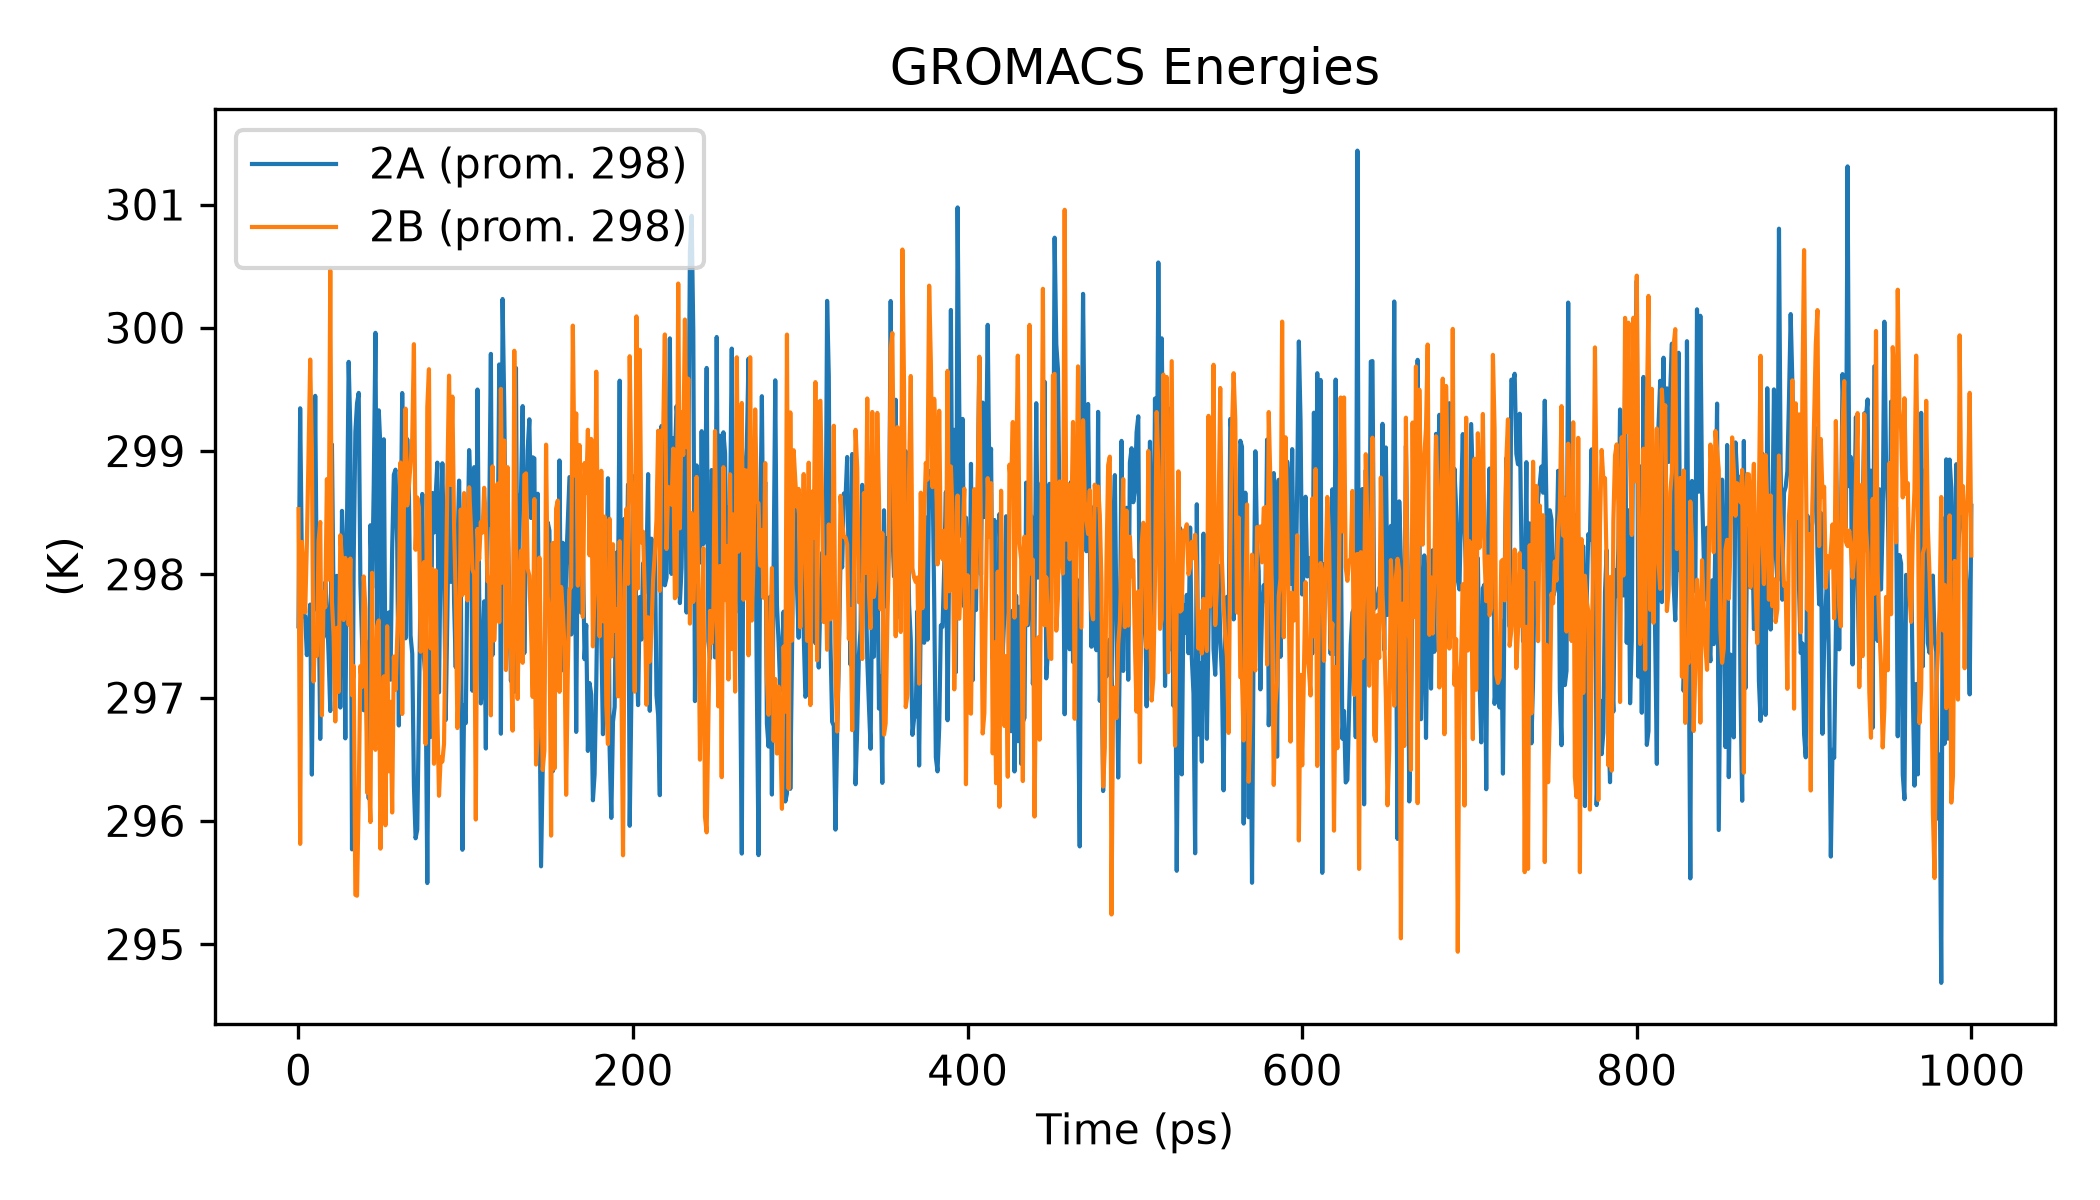
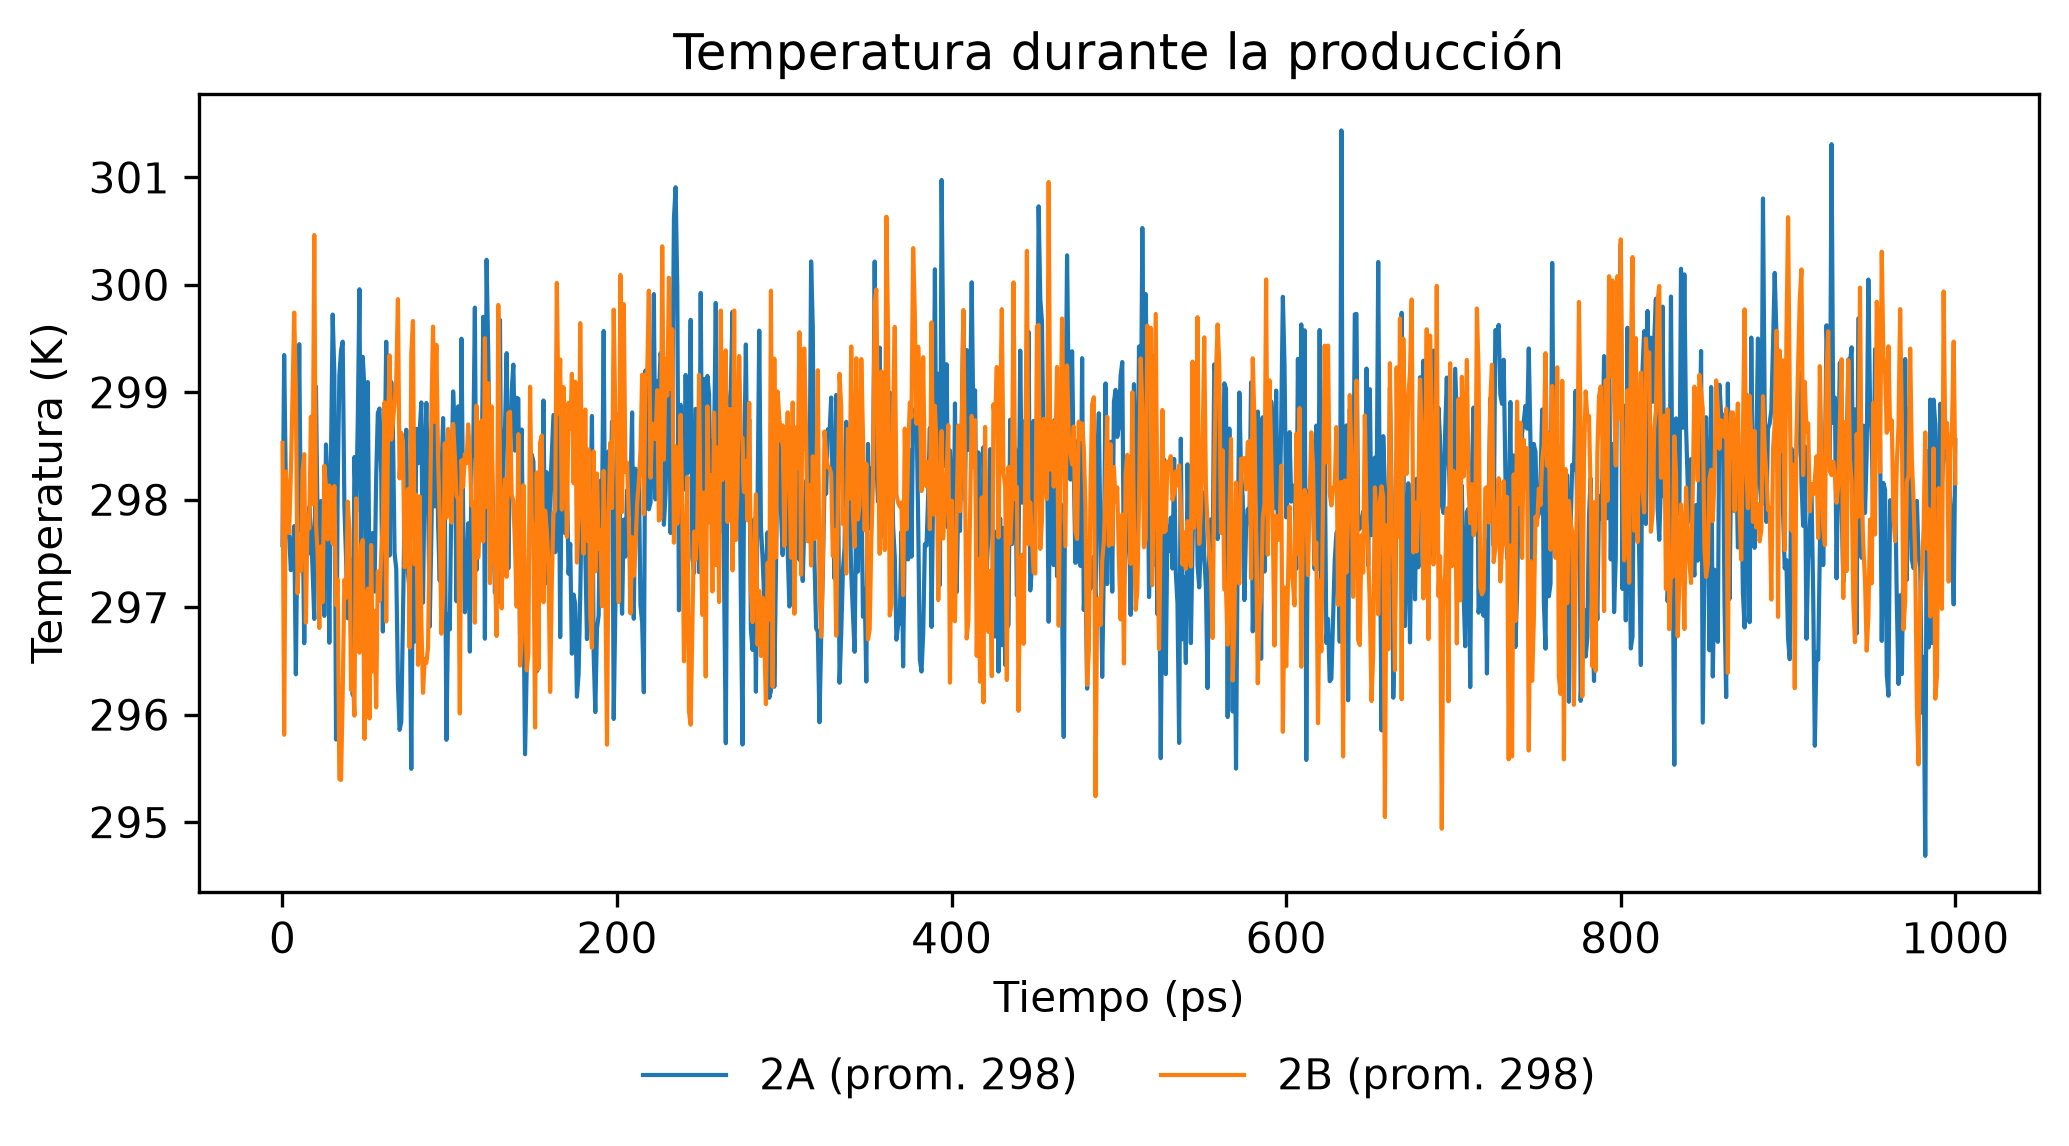
Chore: add alignments, fasta files, updated figures and plotting scripts

Changed region(s): [[0.0, 0.0305, 0.9899, 0.9773]]

diff --git a/scripts/graficar_xvg.py b/scripts/graficar_xvg.py
@@ -9,6 +9,9 @@ Opciones:
     --etiquetas 2A 2B  nombre de cada curva en la leyenda (en el mismo orden)
     --desde 5          ignora los puntos con x < 5 (útil en minimización)
     --ymin / --ymax    límites del eje y
+    --titulo, --xlabel, --ylabel   reemplazan los textos del .xvg
+    --sin-promedio     no muestra el promedio en la leyenda
+    --leyenda-abajo    pone la leyenda debajo de la gráfica, sin tapar datos
 """
 import argparse
 import re
@@ -44,6 +47,11 @@ def main():
     p.add_argument("--desde", type=float)
     p.add_argument("--ymin", type=float)
     p.add_argument("--ymax", type=float)
+    p.add_argument("--titulo")
+    p.add_argument("--xlabel")
+    p.add_argument("--ylabel")
+    p.add_argument("--sin-promedio", action="store_true")
+    p.add_argument("--leyenda-abajo", action="store_true")
     a = p.parse_args()
 
     etiquetas = a.etiquetas or a.archivos
@@ -52,16 +60,19 @@ def main():
         x, y, xlab, ylab, titulo = leer_xvg(ruta)
         if a.desde is not None:
             x, y = x[x >= a.desde], y[x >= a.desde]
-        plt.plot(x, y, lw=1, label=f"{etiqueta} (prom. {y.mean():.4g})")
+        plt.plot(x, y, lw=1, label=etiqueta if a.sin_promedio else f"{etiqueta} (prom. {y.mean():.4g})")
 
-    plt.xlabel(xlab)
-    plt.ylabel(ylab)
-    plt.title(titulo)
+    plt.xlabel(a.xlabel or xlab)
+    plt.ylabel(a.ylabel or ylab)
+    plt.title(a.titulo or titulo)
     plt.ylim(a.ymin, a.ymax)
-    plt.legend()
+    if a.leyenda_abajo:
+        plt.legend(loc="upper center", bbox_to_anchor=(0.5, -0.16), ncol=len(a.archivos), frameon=False)
+    else:
+        plt.legend()
     plt.tight_layout()
     if a.salida:
-        plt.savefig(a.salida, dpi=300)
+        plt.savefig(a.salida, dpi=300, bbox_inches="tight")
         print("Figura guardada en", a.salida)
     else:
         plt.show()

diff --git a/B_dinamica/B_dinamica_molecular.md b/B_dinamica/B_dinamica_molecular.md
@@ -131,6 +131,7 @@ Los ± de presión son el error estimado por `gmx energy`. Las fluctuaciones ins
 
 ### Figuras
 - `figuras/`: gráficas B5–B7 de la corrida local de prueba de 2A.
+- `../C_analisis/figuras/B5_potencial_2A_vs_2B.png`: energía potencial durante la minimización, 2A vs 2B.
 - `../C_analisis/figuras/B8_*`: temperatura y densidad de producción, 2A vs 2B.
 - Datos de todas las etapas de Colab: `../C_analisis/datos/<sistema>/`.
 
